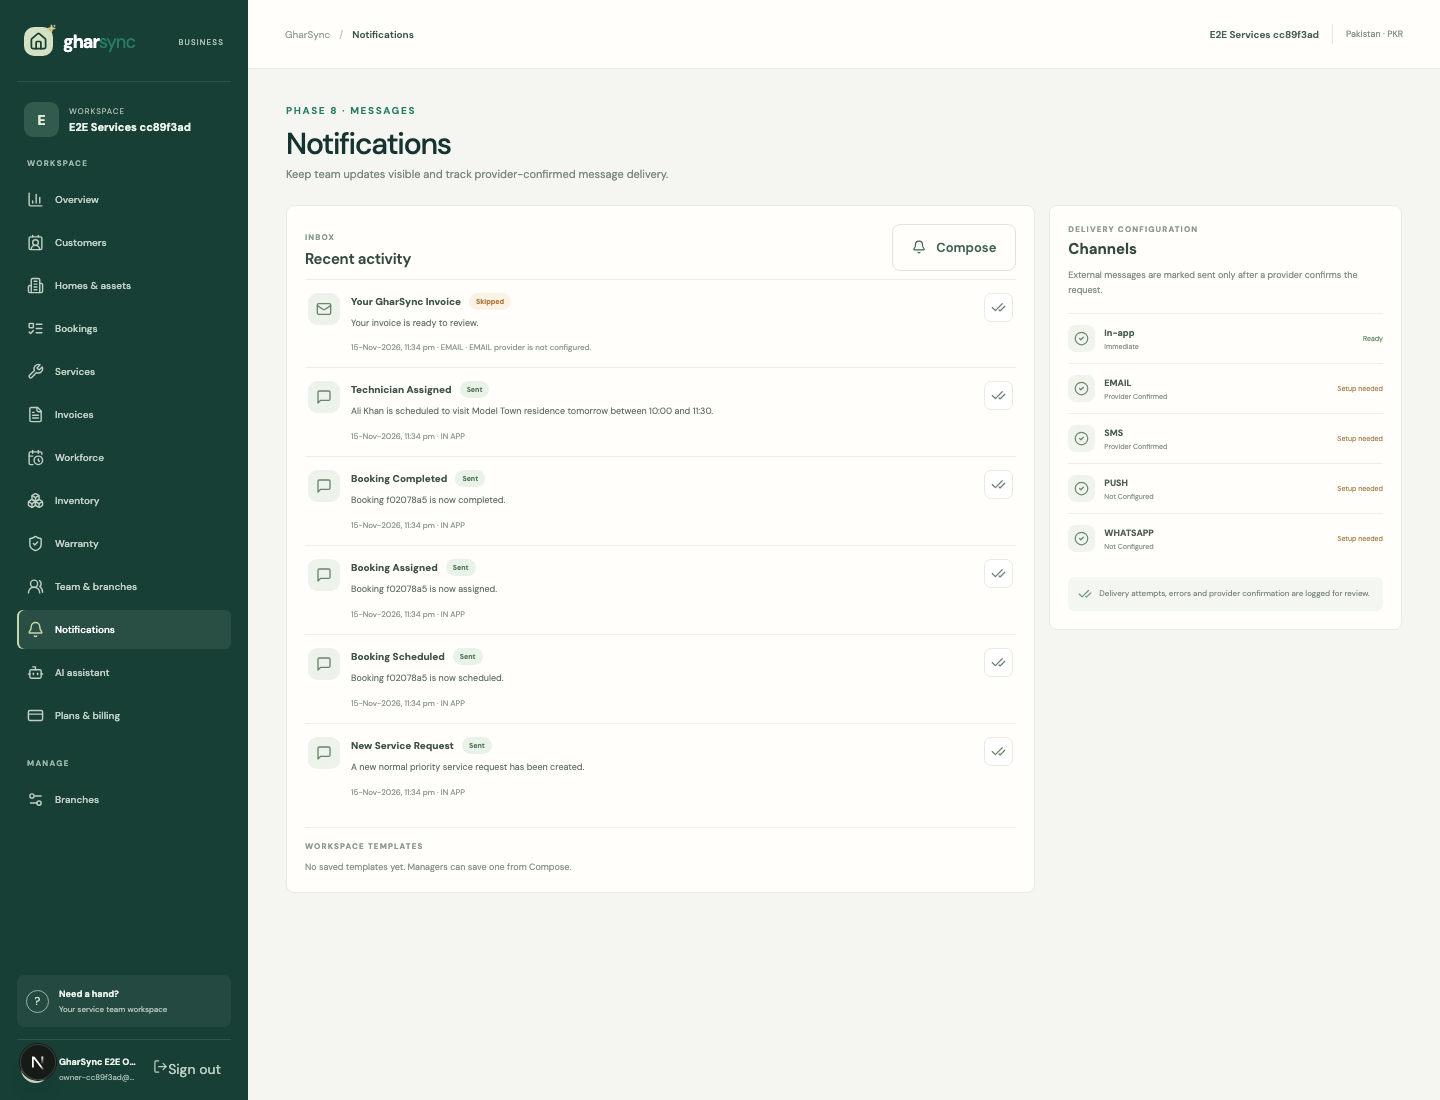
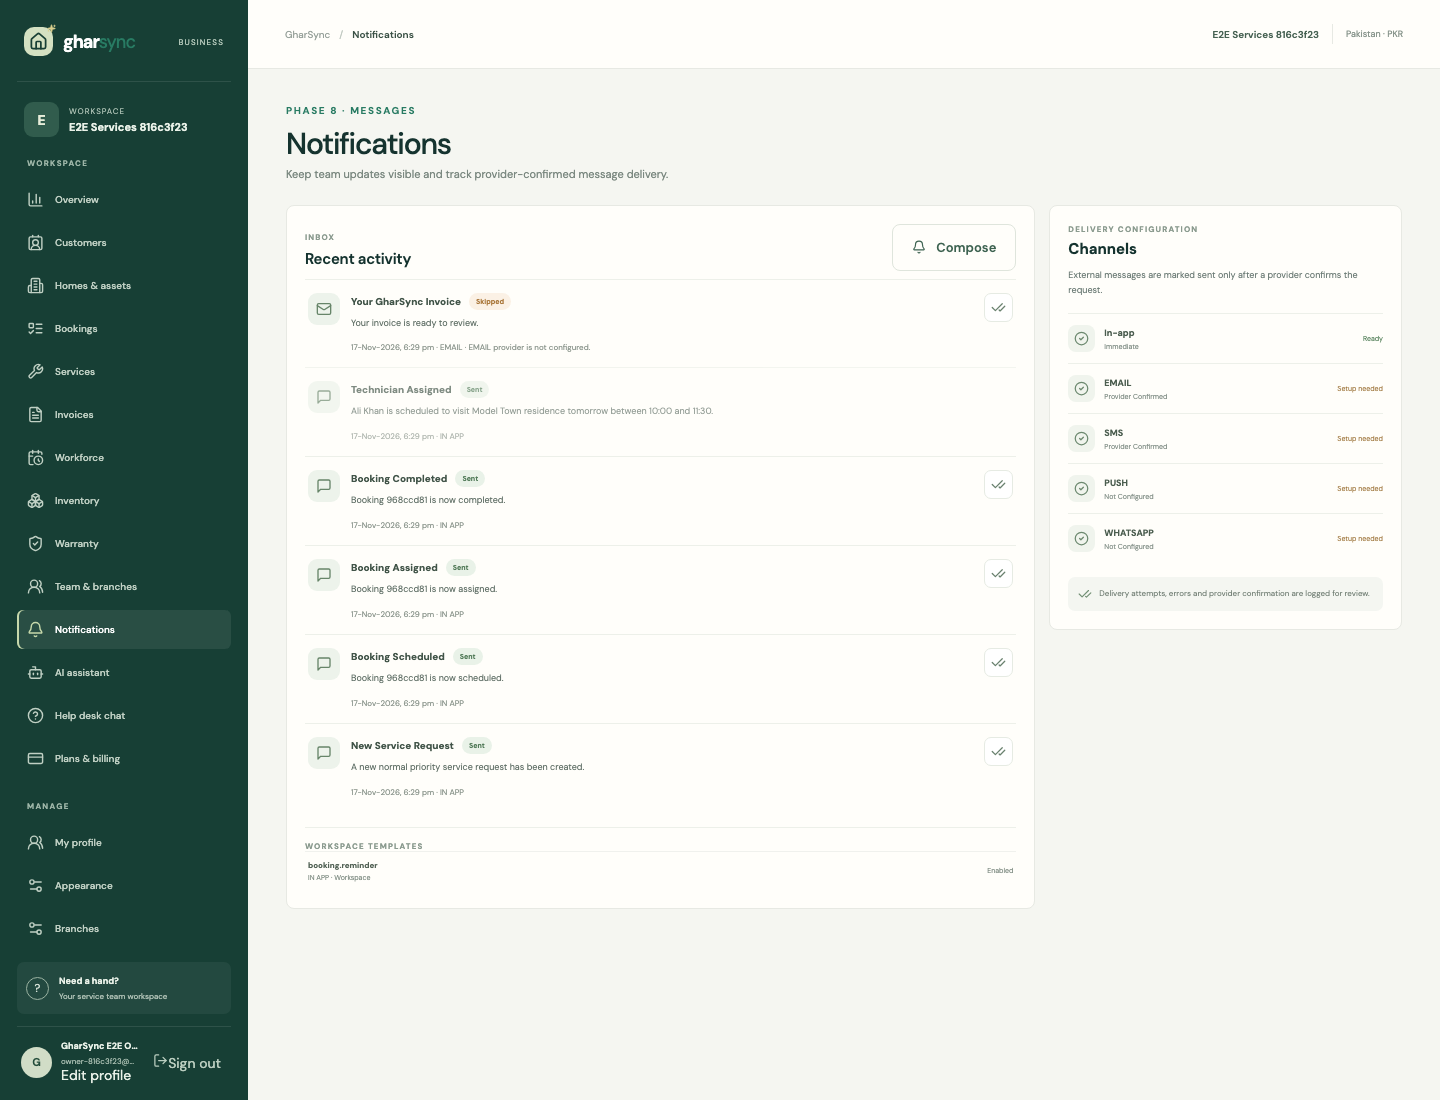
docs: refresh product screenshots and button contrast

diff --git a/apps/web/src/app/globals.css b/apps/web/src/app/globals.css
@@ -88,3 +88,4 @@
 .help-model-notice{display:block;margin-top:8px;color:var(--muted,#6f7e78);font-size:8px;line-height:1.5}
 .help-desk-status.ready{background:var(--mint,#e9f0e9);color:var(--green,#287b63)}.help-desk-status.unavailable{background:#f7e8e4;color:#9a4437}
 .ai-access-note{margin:12px 0;padding:10px 12px;border:1px solid var(--line,#e7e9e3);border-radius:7px;background:var(--surface,#f5f6f1);color:var(--muted,#6f7e78);font-size:10px;line-height:1.55}
+.button-primary{color:#fff}:root[data-theme="midnight"] .button-primary{color:#111827}

diff --git a/README.md b/README.md
@@ -25,7 +25,7 @@ GharSync is a Pakistan-first workspace for home-service businesses. It connects 
 
 ## Current UI
 
-These screenshots are captured from the running web app in Chrome. Authenticated screens use a local development workspace.
+These screenshots are recaptured from the production build in Chrome. Authenticated screens use synthetic local demo data and a consistent light appearance.
 
 | Screen | Preview |
 |---|---|
@@ -35,8 +35,17 @@ These screenshots are captured from the running web app in Chrome. Authenticated
 | Password recovery | ![GharSync password recovery page](docs/screenshots/gharsync-forgot-password.png) |
 | Business dashboard | ![GharSync business dashboard](docs/screenshots/gharsync-dashboard.png) |
 | Business dashboard · mobile | ![GharSync dashboard on mobile](docs/screenshots/gharsync-dashboard-mobile.png) |
+| Customers | ![GharSync customer directory](docs/screenshots/gharsync-customers.png) |
+| Branch settings | ![GharSync branch settings](docs/screenshots/gharsync-branches.png) |
+| Workforce | ![GharSync workforce](docs/screenshots/gharsync-workforce.png) |
+| Inventory | ![GharSync inventory](docs/screenshots/gharsync-inventory.png) |
+| Warranty claims | ![GharSync warranty claims](docs/screenshots/gharsync-warranty.png) |
 | Notifications | ![GharSync notifications](docs/screenshots/gharsync-notifications.png) |
 | Plans and billing | ![GharSync plans and billing](docs/screenshots/gharsync-billing.png) |
+| Profile settings | ![GharSync profile settings](docs/screenshots/gharsync-profile.png) |
+| Appearance | ![GharSync appearance settings](docs/screenshots/gharsync-appearance.png) |
+| Help Desk and local AI | ![GharSync Help Desk with Ollama ready](docs/screenshots/gharsync-help-desk.png) |
+| AI service assistant | ![GharSync AI service assistant](docs/screenshots/gharsync-assistant.png) |
 
 ## Delivery status
 
